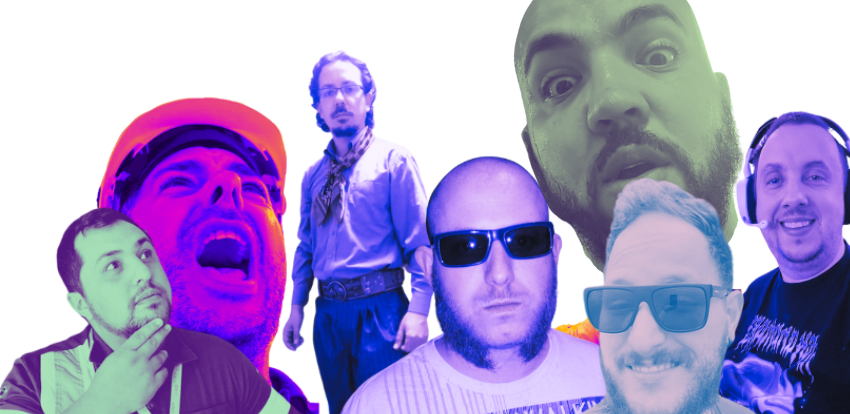
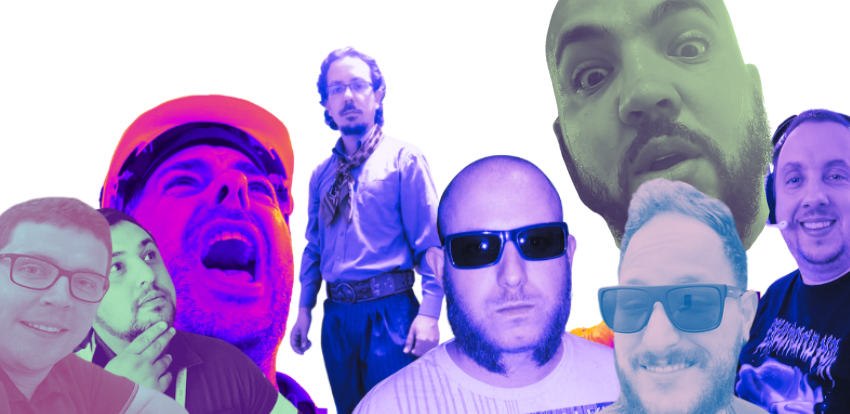
Fix some players images

diff --git a/index.html b/index.html
@@ -165,7 +165,7 @@
                                 <div class="team-content">
                                     <span class="whte-shape"></span>
                                     <h3><a href="#">zeilmann</a></h3>
-                                    <h4>Fortnite - Warfare 2.0</h4>
+                                    <h4>Warfare 2.0</h4>
                                 </div>
                             </div>
                         </div><div class="swiper-slide swiper-slide-duplicate" data-swiper-slide-index="2" role="group" aria-label="3 / 5" style="width: 305px; margin-right: 30px;">
@@ -225,8 +225,26 @@
                                 </div>
                                 <div class="team-content">
                                     <span class="whte-shape"></span>
-                                    <h3><a href="#">O50RI0</a></h3>
-                                    <h4>Fortnite - Warfare 2.0</h4>
+                                    <h3><a href="#">DELAY</a></h3>
+                                    <h4>Warfare 2.0</h4>
+                                </div>
+                            </div>
+                        </div>
+                        <div class="swiper-slide swiper-slide-next" data-swiper-slide-index="1" role="group" aria-label="2 / 5" style="width: 305px; margin-right: 30px;">
+                            <div class="team-item">
+                                <div class="team-thumb">
+                                    <img src="./images/team-7.png" alt="thumb">
+                                    <div class="shape-wrap">
+                                        <div class="shape shape-1"></div>
+                                        <div class="shape shape-2"></div>
+                                        <div class="shape shape-3"></div>
+                                        <div class="shape shape-4"></div>
+                                    </div>
+                                </div>
+                                <div class="team-content">
+                                    <span class="whte-shape"></span>
+                                    <h3><a href="#">Benzinho</a></h3>
+                                    <h4>Warfare 2.0 - R6</h4>
                                 </div>
                             </div>
                         </div>
@@ -244,7 +262,7 @@
                                 <div class="team-content">
                                     <span class="whte-shape"></span>
                                     <h3><a href="#">zeilmann</a></h3>
-                                    <h4>Fortnite - Warfare 2.0</h4>
+                                    <h4>Warfare 2.0</h4>
                                 </div>
                             </div>
                         </div>
@@ -262,7 +280,7 @@
                                 <div class="team-content">
                                     <span class="whte-shape"></span>
                                     <h3><a href="#">Mumuzinho</a></h3>
-                                    <h4>Fortnite - Warfare 2.0</h4>
+                                    <h4>Warfare 2.0</h4>
                                 </div>
                             </div>
                         </div>
@@ -279,8 +297,8 @@
                                 </div>
                                 <div class="team-content">
                                     <span class="whte-shape"></span>
-                                    <h3><a href="#">Shuas_Gamer</a></h3>
-                                    <h4>Fortnite - Warfare 2.0</h4>
+                                    <h3><a href="#">Cap.Shuas</a></h3>
+                                    <h4>Warfare 2.0</h4>
                                 </div>
                             </div>
                         </div>
@@ -299,6 +317,42 @@
                                     <span class="whte-shape"></span>
                                     <h3><a href="#">Pablito</a></h3>
                                     <h4>Fortnite</h4>
+                                </div>
+                            </div>
+                        </div>
+                        <div class="swiper-slide swiper-slide-next" data-swiper-slide-index="1" role="group" aria-label="2 / 5" style="width: 305px; margin-right: 30px;">
+                            <div class="team-item">
+                                <div class="team-thumb">
+                                    <img src="./images/team-6.png" alt="thumb">
+                                    <div class="shape-wrap">
+                                        <div class="shape shape-1"></div>
+                                        <div class="shape shape-2"></div>
+                                        <div class="shape shape-3"></div>
+                                        <div class="shape shape-4"></div>
+                                    </div>
+                                </div>
+                                <div class="team-content">
+                                    <span class="whte-shape"></span>
+                                    <h3><a href="#">Leo Rubinho</a></h3>
+                                    <h4>Warfare 2.0</h4>
+                                </div>
+                            </div>
+                        </div>
+                        <div class="swiper-slide swiper-slide-next" data-swiper-slide-index="1" role="group" aria-label="2 / 5" style="width: 305px; margin-right: 30px;">
+                            <div class="team-item">
+                                <div class="team-thumb">
+                                    <img src="./images/team-8.png" alt="thumb">
+                                    <div class="shape-wrap">
+                                        <div class="shape shape-1"></div>
+                                        <div class="shape shape-2"></div>
+                                        <div class="shape shape-3"></div>
+                                        <div class="shape shape-4"></div>
+                                    </div>
+                                </div>
+                                <div class="team-content">
+                                    <span class="whte-shape"></span>
+                                    <h3><a href="#">Giuseppe Camole</a></h3>
+                                    <h4>Warfare 2.0</h4>
                                 </div>
                             </div>
                         </div>
